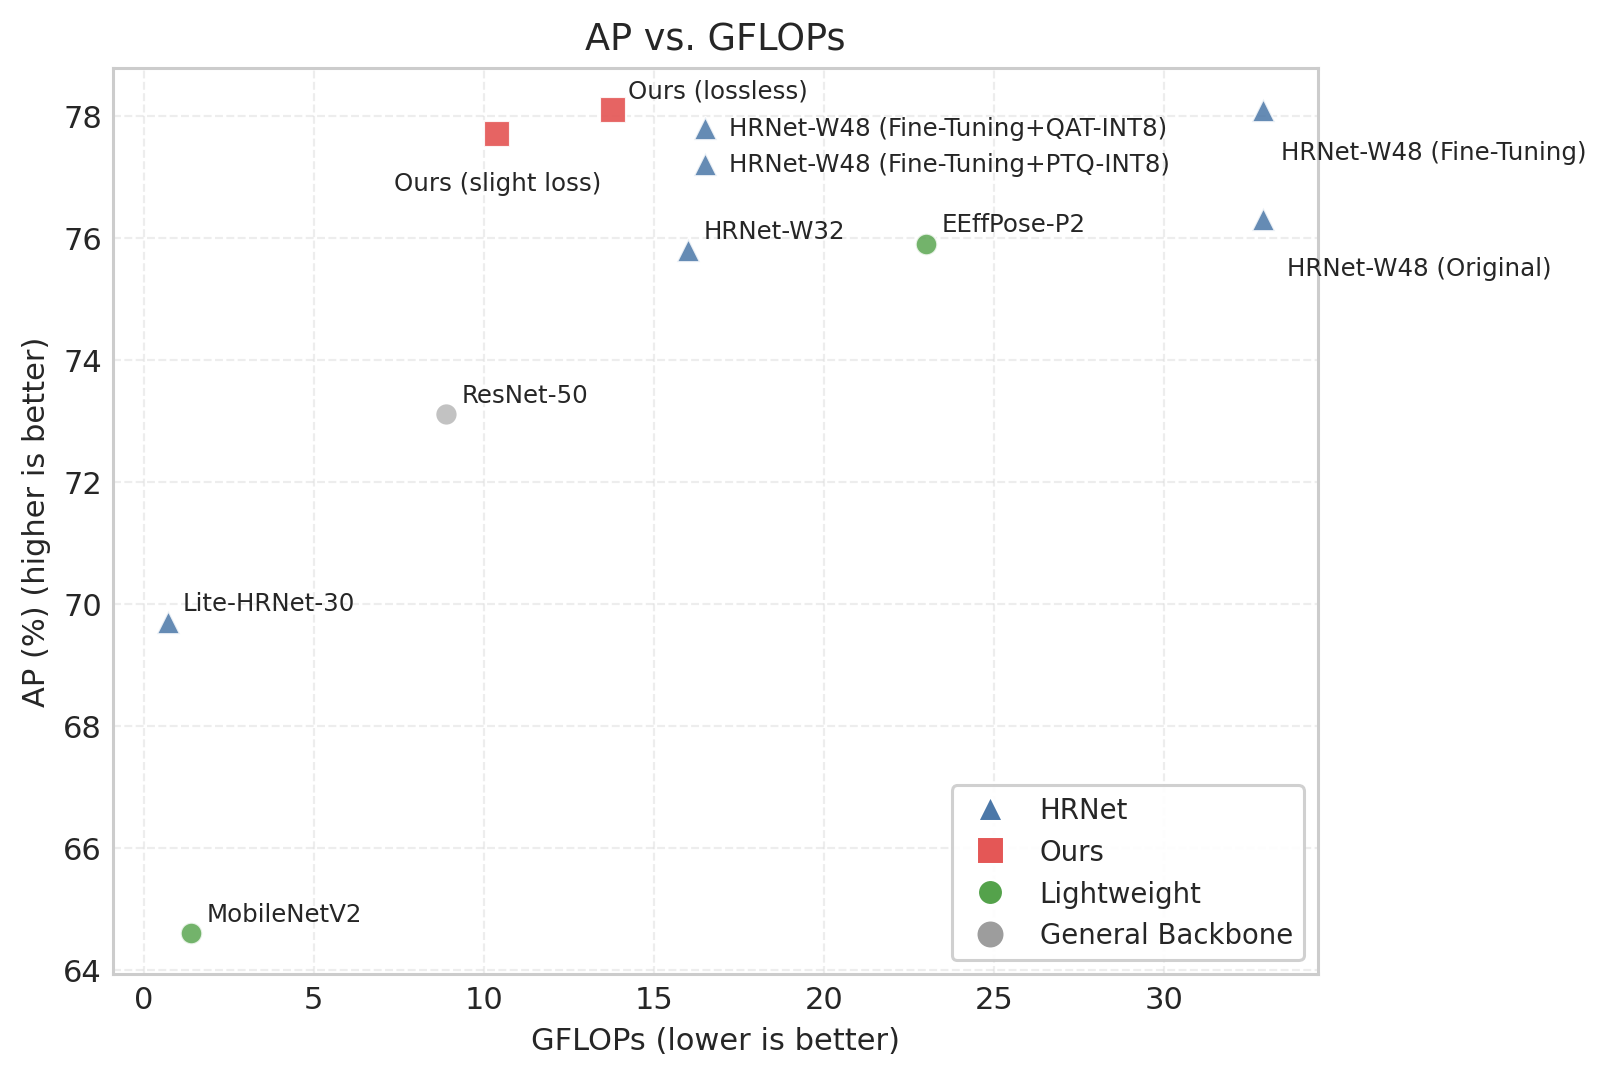
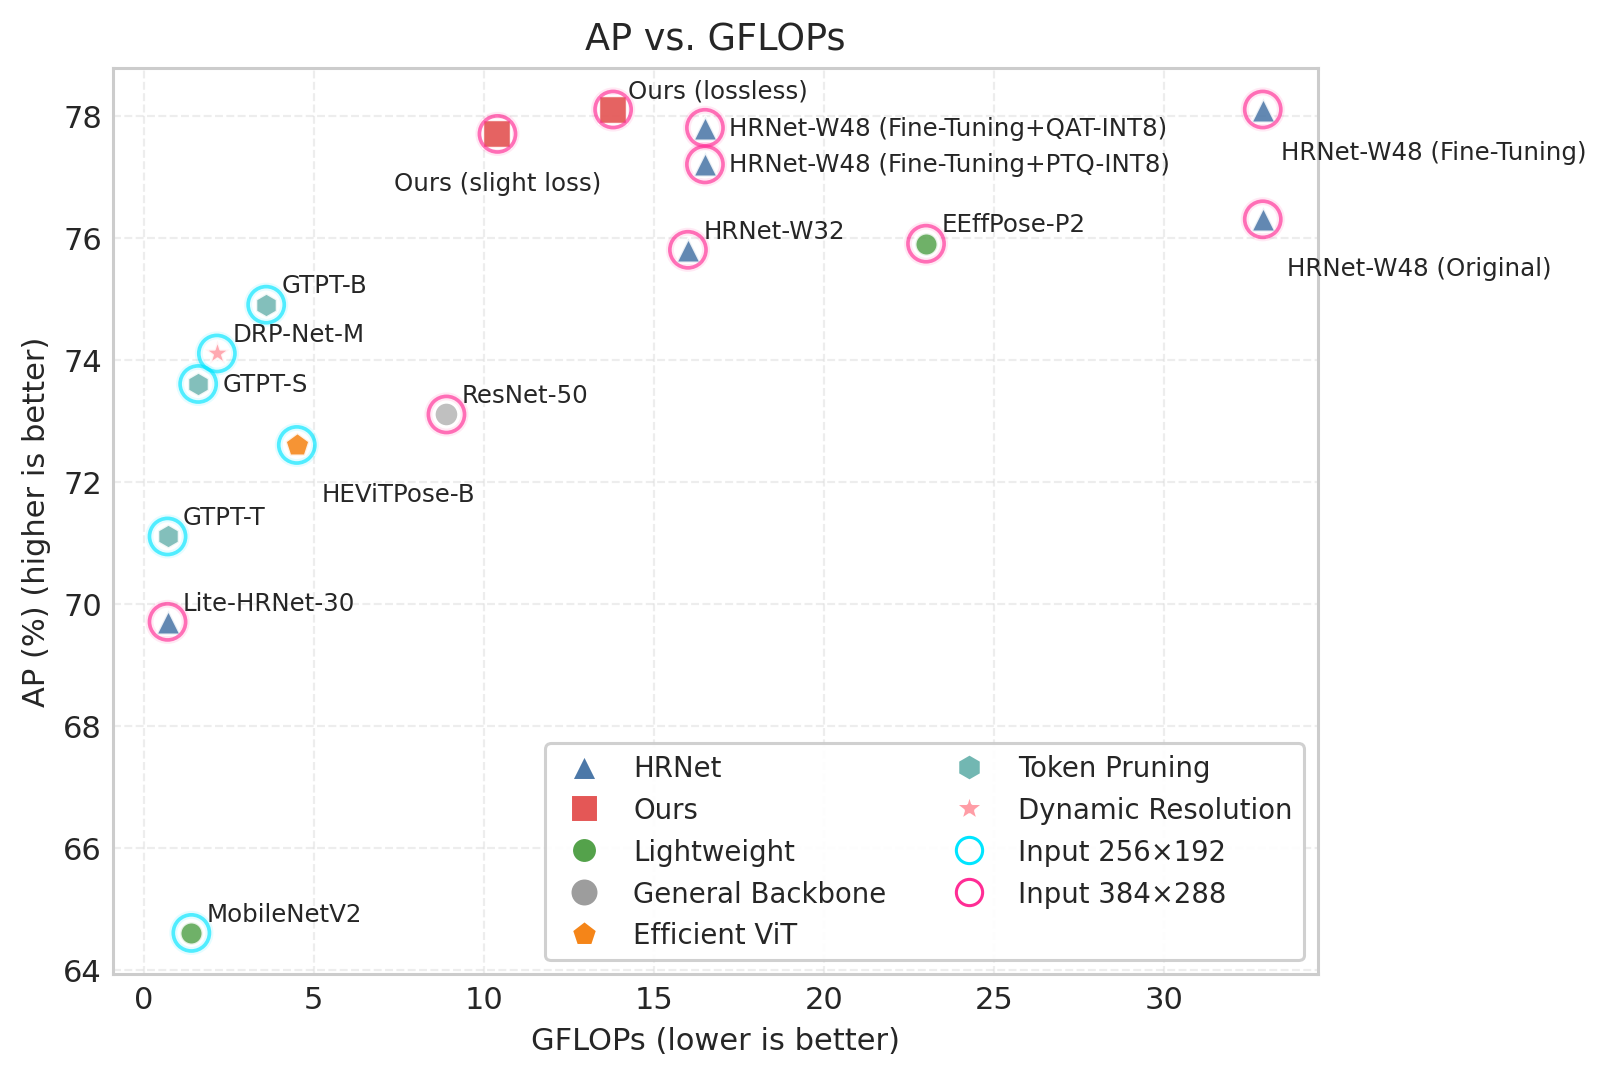
refresh files

diff --git a/figures/figure.py b/figures/figure.py
@@ -22,6 +22,14 @@ class Point:
     label: str
 
 
+@dataclass(frozen=True)
+class ParetoPoint:
+    x: float
+    y: float
+    label: str
+    res: str
+
+
 def _en_label(name: str) -> str:
     s = (name or '').strip()
     if not s:
@@ -45,6 +53,12 @@ def _en_label(name: str) -> str:
     return mapping.get(s, s)
 
 
+def _norm_res(s: str) -> str:
+    t = (s or '').strip().replace('×', 'x').replace('X', 'x')
+    t = re.sub(r'\s+', '', t)
+    return t
+
+
 def _category(label: str) -> str:
     s = (label or '').strip()
     if not s:
@@ -53,6 +67,12 @@ def _category(label: str) -> str:
         return 'Ours'
     if 'HRNet' in s:
         return 'HRNet'
+    if 'HEViTPose' in s:
+        return 'Efficient ViT'
+    if s.startswith('GTPT-'):
+        return 'Token Pruning'
+    if s.startswith('DRP-Net'):
+        return 'Dynamic Resolution'
     if ('Lite' in s) or ('Mobile' in s) or ('Efficient' in s) or ('EEffPose' in s):
         return 'Lightweight'
     if ('ResNet' in s) or ('ResNeXt' in s) or ('SimpleBaseline' in s):
@@ -228,12 +248,53 @@ def _svg_marker(cat: str, cx: float, cy: float, color: str, r: float, opacity: f
     if cat == 'HRNet':
         pts = f'{cx:.2f},{cy - r:.2f} {cx - r:.2f},{cy + r:.2f} {cx + r:.2f},{cy + r:.2f}'
         return f'<polygon points="{pts}" fill="{color}" opacity="{opacity:.3f}"/>'
+    if cat == 'Efficient ViT':
+        rr = r
+        pts = [
+            (cx, cy - rr),
+            (cx - rr * 0.95, cy - rr * 0.25),
+            (cx - rr * 0.60, cy + rr * 0.95),
+            (cx + rr * 0.60, cy + rr * 0.95),
+            (cx + rr * 0.95, cy - rr * 0.25),
+        ]
+        pts_s = ' '.join([f'{x:.2f},{y:.2f}' for x, y in pts])
+        return f'<polygon points="{pts_s}" fill="{color}" opacity="{opacity:.3f}"/>'
+    if cat == 'Token Pruning':
+        pts = [
+            (cx - r, cy),
+            (cx - r * 0.5, cy - r),
+            (cx + r * 0.5, cy - r),
+            (cx + r, cy),
+            (cx + r * 0.5, cy + r),
+            (cx - r * 0.5, cy + r),
+        ]
+        pts_s = ' '.join([f'{x:.2f},{y:.2f}' for x, y in pts])
+        return f'<polygon points="{pts_s}" fill="{color}" opacity="{opacity:.3f}"/>'
+    if cat == 'Dynamic Resolution':
+        pts = [
+            (cx, cy - r),
+            (cx + r * 0.23, cy - r * 0.23),
+            (cx + r, cy - r * 0.23),
+            (cx + r * 0.35, cy + r * 0.15),
+            (cx + r * 0.55, cy + r),
+            (cx, cy + r * 0.45),
+            (cx - r * 0.55, cy + r),
+            (cx - r * 0.35, cy + r * 0.15),
+            (cx - r, cy - r * 0.23),
+            (cx - r * 0.23, cy - r * 0.23),
+        ]
+        pts_s = ' '.join([f'{x:.2f},{y:.2f}' for x, y in pts])
+        return f'<polygon points="{pts_s}" fill="{color}" opacity="{opacity:.3f}"/>'
     return f'<circle cx="{cx:.2f}" cy="{cy:.2f}" r="{r:.2f}" fill="{color}" opacity="{opacity:.3f}"/>'
 
 
 def _svg_label_pos(label: str) -> Tuple[float, float, str]:
     if (label or '').strip() == 'Ours (slight loss)':
         return 0.0, 12.0, 'middle'
+    if (label or '').strip() == 'HEViTPose-B':
+        return 10.0, 12.0, 'start'
+    if (label or '').strip() == 'GTPT-S':
+        return 10.0, 0.0, 'start'
     if (label or '').strip() == 'HRNet-W48 (Original)':
         return 10.0, 12.0, 'start'
     if (label or '').strip() == 'HRNet-W48 (Fine-Tuning+PTQ-INT8)':
@@ -391,7 +452,7 @@ def _pareto_frontier(points: List[Point]) -> List[Point]:
     return frontier
 
 
-def _plot_ap_gflops_pareto_svg(points: List[Point], frontier: List[Point], out_dir: str) -> str:
+def _plot_ap_gflops_pareto_svg(points: List[ParetoPoint], frontier: List[ParetoPoint], out_dir: str) -> str:
     width, height = 1040, 660
     ml, mr, mt, mb = 90, 30, 60, 80
     x0, x1 = ml, width - mr
@@ -434,13 +495,28 @@ def _plot_ap_gflops_pareto_svg(points: List[Point], frontier: List[Point], out_d
         'Ours': '#e45756',
         'Lightweight': '#54a24b',
         'General': '#9d9d9d',
+        'Efficient ViT': '#f58518',
+        'Token Pruning': '#72b7b2',
+        'Dynamic Resolution': '#ff9da6',
     }
-    marker_r = {'HRNet': 5.4, 'Ours': 5.8, 'Lightweight': 5.1, 'General': 4.9}
+    marker_r = {
+        'HRNet': 5.6,
+        'Ours': 6.0,
+        'Lightweight': 5.2,
+        'General': 5.0,
+        'Efficient ViT': 5.6,
+        'Token Pruning': 5.4,
+        'Dynamic Resolution': 5.6,
+    }
+    ring_color = {
+        '256x192': '#00e5ff',
+        '384x288': '#ff2d95',
+    }
 
     label_set = set()
     for p in points:
         c = _category(p.label)
-        if (c in ['HRNet', 'Ours', 'Lightweight', 'General']) or (p.label in label_set):
+        if c in ['HRNet', 'Ours', 'Lightweight', 'General', 'Efficient ViT', 'Token Pruning', 'Dynamic Resolution']:
             label_set.add(p.label)
 
     for p in points:
@@ -450,6 +526,11 @@ def _plot_ap_gflops_pareto_svg(points: List[Point], frontier: List[Point], out_d
         r = marker_r.get(cat, 4.0)
         px = _linear_map(p.x, xmin, xmax, x0, x1)
         py = _linear_map(p.y, ymin, ymax, y0, y1)
+        rc = ring_color.get(p.res)
+        if rc is not None:
+            rr = r + 1.9
+            elements.append(f'<circle cx="{px:.2f}" cy="{py:.2f}" r="{rr:.2f}" fill="none" stroke="{rc}" stroke-width="2.6" opacity="0.10"/>')
+            elements.append(f'<circle cx="{px:.2f}" cy="{py:.2f}" r="{rr:.2f}" fill="none" stroke="{rc}" stroke-width="1.2" opacity="0.65"/>')
         elements.append(_svg_marker(cat, px, py, color, r, opacity=0.78))
         if p.label in label_set:
             dx, dy, anchor = _svg_label_pos(label)
@@ -464,13 +545,24 @@ def _plot_ap_gflops_pareto_svg(points: List[Point], frontier: List[Point], out_d
         ('Ours', palette['Ours']),
         ('Lightweight', palette['Lightweight']),
         ('General Backbone', palette['General']),
+        ('Efficient ViT', palette['Efficient ViT']),
+        ('Token Pruning', palette['Token Pruning']),
+        ('Dynamic Resolution', palette['Dynamic Resolution']),
     ]
     for i, (name, color) in enumerate(legend):
         yy = ly + i * 18
-        elements.append(f'<rect x="{lx-8}" y="{yy-12}" width="220" height="18" fill="white" opacity="0.82"/>')
+        elements.append(f'<rect x="{lx-8}" y="{yy-12}" width="260" height="18" fill="white" opacity="0.82"/>')
         key = 'General' if name == 'General Backbone' else name
-        elements.append(_svg_marker(key, lx, yy - 4, color, 5.2, opacity=0.9))
+        elements.append(_svg_marker(key, lx, yy - 4, color, 5.8, opacity=0.9))
         elements.append(f'<text x="{lx+12}" y="{yy}" font-size="12" font-family="Times New Roman, Times, serif">{_svg_escape(name)}</text>')
+    yy = ly + len(legend) * 18 + 4
+    elements.append(f'<rect x="{lx-8}" y="{yy-12}" width="260" height="18" fill="white" opacity="0.82"/>')
+    elements.append(f'<circle cx="{lx}" cy="{yy-4}" r="5.4" fill="none" stroke="{ring_color["256x192"]}" stroke-width="1.6" opacity="0.78"/>')
+    elements.append(f'<text x="{lx+12}" y="{yy}" font-size="12" font-family="Times New Roman, Times, serif">{_svg_escape("Input 256×192")}</text>')
+    yy = yy + 18
+    elements.append(f'<rect x="{lx-8}" y="{yy-12}" width="260" height="18" fill="white" opacity="0.82"/>')
+    elements.append(f'<circle cx="{lx}" cy="{yy-4}" r="5.4" fill="none" stroke="{ring_color["384x288"]}" stroke-width="1.6" opacity="0.78"/>')
+    elements.append(f'<text x="{lx+12}" y="{yy}" font-size="12" font-family="Times New Roman, Times, serif">{_svg_escape("Input 384×288")}</text>')
 
     out_svg = os.path.join(out_dir, 'ap_gflops_pareto.svg')
     _write_svg(out_svg, width, height, elements)
@@ -479,11 +571,12 @@ def _plot_ap_gflops_pareto_svg(points: List[Point], frontier: List[Point], out_d
 
 def plot_ap_gflops_pareto(comparison_csv: str, out_dir: str) -> str:
     rows = _read_comparison_csv(comparison_csv)
-    pts: List[Point] = []
+    pts: List[ParetoPoint] = []
     for r in rows:
         name = (r.get('模型') or '').strip()
         gflops = r.get('GFLOPs')
         ap = r.get('AP (%)')
+        res = _norm_res(r.get('输入尺寸') or '')
         if not name or gflops is None or ap is None:
             continue
         try:
@@ -491,9 +584,10 @@ def plot_ap_gflops_pareto(comparison_csv: str, out_dir: str) -> str:
             y = _to_float(ap)
         except Exception:
             continue
-        pts.append(Point(x=x, y=y, label=_en_label(name)))
+        pts.append(ParetoPoint(x=x, y=y, label=_en_label(name), res=res))
 
-    frontier = _pareto_frontier(pts)
+    frontier = _pareto_frontier([Point(x=p.x, y=p.y, label=p.label) for p in pts])
+    frontier = [p for p in pts if any((p.x == q.x and p.y == q.y and p.label == q.label) for q in frontier)]
 
     if plt is None:
         return _plot_ap_gflops_pareto_svg(pts, frontier, out_dir)
@@ -508,16 +602,55 @@ def plot_ap_gflops_pareto(comparison_csv: str, out_dir: str) -> str:
         'Ours': '#e45756',
         'Lightweight': '#54a24b',
         'General': '#9d9d9d',
+        'Efficient ViT': '#f58518',
+        'Token Pruning': '#72b7b2',
+        'Dynamic Resolution': '#ff9da6',
     }
-    markers = {'HRNet': '^', 'Ours': 's', 'Lightweight': 'o', 'General': 'o'}
-    sizes = {'HRNet': 58, 'Ours': 74, 'Lightweight': 50, 'General': 44}
-    alphas = {'HRNet': 0.86, 'Ours': 0.92, 'Lightweight': 0.82, 'General': 0.62}
+    markers = {
+        'HRNet': '^',
+        'Ours': 's',
+        'Lightweight': 'o',
+        'General': 'o',
+        'Efficient ViT': 'p',
+        'Token Pruning': 'h',
+        'Dynamic Resolution': '*',
+    }
+    sizes = {
+        'HRNet': 64,
+        'Ours': 82,
+        'Lightweight': 54,
+        'General': 50,
+        'Efficient ViT': 68,
+        'Token Pruning': 62,
+        'Dynamic Resolution': 74,
+    }
+    alphas = {
+        'HRNet': 0.88,
+        'Ours': 0.93,
+        'Lightweight': 0.84,
+        'General': 0.64,
+        'Efficient ViT': 0.88,
+        'Token Pruning': 0.88,
+        'Dynamic Resolution': 0.88,
+    }
+    ring_color = {
+        '256x192': '#00e5ff',
+        '384x288': '#ff2d95',
+    }
 
-    by_cat: Dict[str, List[Point]] = {'HRNet': [], 'Ours': [], 'Lightweight': [], 'General': []}
+    by_cat: Dict[str, List[Point]] = {
+        'HRNet': [],
+        'Ours': [],
+        'Lightweight': [],
+        'General': [],
+        'Efficient ViT': [],
+        'Token Pruning': [],
+        'Dynamic Resolution': [],
+    }
     for p in pts:
         by_cat[_category(p.label)].append(p)
 
-    for cat in ['General', 'Lightweight', 'HRNet', 'Ours']:
+    for cat in ['General', 'Lightweight', 'Efficient ViT', 'Token Pruning', 'Dynamic Resolution', 'HRNet', 'Ours']:
         gp = by_cat.get(cat, [])
         if not gp:
             continue
@@ -528,21 +661,53 @@ def plot_ap_gflops_pareto(comparison_csv: str, out_dir: str) -> str:
             alpha=alphas.get(cat, 0.7),
             c=palette.get(cat, '#777777'),
             marker=markers.get(cat, 'o'),
-            edgecolors='white' if cat in ['HRNet', 'Ours', 'Lightweight'] else 'none',
-            linewidths=0.7 if cat in ['HRNet', 'Ours', 'Lightweight'] else 0.0,
+            edgecolors='white' if cat in ['HRNet', 'Ours', 'Lightweight', 'Efficient ViT', 'Token Pruning', 'Dynamic Resolution'] else 'none',
+            linewidths=0.8 if cat in ['HRNet', 'Ours', 'Lightweight', 'Efficient ViT', 'Token Pruning', 'Dynamic Resolution'] else 0.0,
             label=cat,
             zorder=2 if cat != 'Ours' else 3,
+        )
+
+    for res_key in ['256x192', '384x288']:
+        rp = [p for p in pts if p.res == res_key]
+        if not rp:
+            continue
+        rc = ring_color[res_key]
+        ax.scatter(
+            [p.x for p in rp],
+            [p.y for p in rp],
+            s=140,
+            facecolors='none',
+            edgecolors=rc,
+            linewidths=2.6,
+            alpha=0.10,
+            marker='o',
+            zorder=1,
+        )
+        ax.scatter(
+            [p.x for p in rp],
+            [p.y for p in rp],
+            s=140,
+            facecolors='none',
+            edgecolors=rc,
+            linewidths=1.2,
+            alpha=0.65,
+            marker='o',
+            zorder=4,
         )
 
     label_set = set()
     for p in pts:
         c = _category(p.label)
-        if (c in ['HRNet', 'Ours', 'Lightweight', 'General']) or (p.label in label_set):
+        if c in ['HRNet', 'Ours', 'Lightweight', 'General', 'Efficient ViT', 'Token Pruning', 'Dynamic Resolution']:
             label_set.add(p.label)
     for p in pts:
         if p.label in label_set:
             if p.label == 'Ours (slight loss)':
                 ax.annotate(p.label, (p.x, p.y), textcoords='offset points', xytext=(0, -12), ha='center', va='top', fontsize=8)
+            elif p.label == 'HEViTPose-B':
+                ax.annotate(p.label, (p.x, p.y), textcoords='offset points', xytext=(8, -12), ha='left', va='top', fontsize=8)
+            elif p.label == 'GTPT-S':
+                ax.annotate(p.label, (p.x, p.y), textcoords='offset points', xytext=(8, 0), ha='left', va='center', fontsize=8)
             elif p.label == 'HRNet-W48 (Original)':
                 ax.annotate(p.label, (p.x, p.y), textcoords='offset points', xytext=(8, -12), ha='left', va='top', fontsize=8)
             elif p.label == 'HRNet-W48 (Fine-Tuning+PTQ-INT8)':
@@ -566,8 +731,13 @@ def plot_ap_gflops_pareto(comparison_csv: str, out_dir: str) -> str:
             Line2D([], [], linestyle='None', marker='s', markersize=9.0, markerfacecolor=palette['Ours'], markeredgecolor='white', label='Ours'),
             Line2D([], [], linestyle='None', marker='o', markersize=8.5, markerfacecolor=palette['Lightweight'], markeredgecolor='white', label='Lightweight'),
             Line2D([], [], linestyle='None', marker='o', markersize=8.5, markerfacecolor=palette['General'], markeredgecolor='none', label='General Backbone'),
+            Line2D([], [], linestyle='None', marker='p', markersize=9.0, markerfacecolor=palette['Efficient ViT'], markeredgecolor='white', label='Efficient ViT'),
+            Line2D([], [], linestyle='None', marker='h', markersize=8.9, markerfacecolor=palette['Token Pruning'], markeredgecolor='white', label='Token Pruning'),
+            Line2D([], [], linestyle='None', marker='*', markersize=10.0, markerfacecolor=palette['Dynamic Resolution'], markeredgecolor='white', label='Dynamic Resolution'),
+            Line2D([], [], linestyle='None', marker='o', markersize=8.6, markerfacecolor='none', markeredgecolor=ring_color['256x192'], label='Input 256×192'),
+            Line2D([], [], linestyle='None', marker='o', markersize=8.6, markerfacecolor='none', markeredgecolor=ring_color['384x288'], label='Input 384×288'),
         ]
-        ax.legend(handles=handles, loc='lower right', frameon=True, framealpha=0.92, fontsize=9)
+        ax.legend(handles=handles, loc='lower right', frameon=True, framealpha=0.92, fontsize=9, ncol=2)
     except Exception:
         ax.legend(loc='lower right', frameon=True, framealpha=0.92, fontsize=9)
 